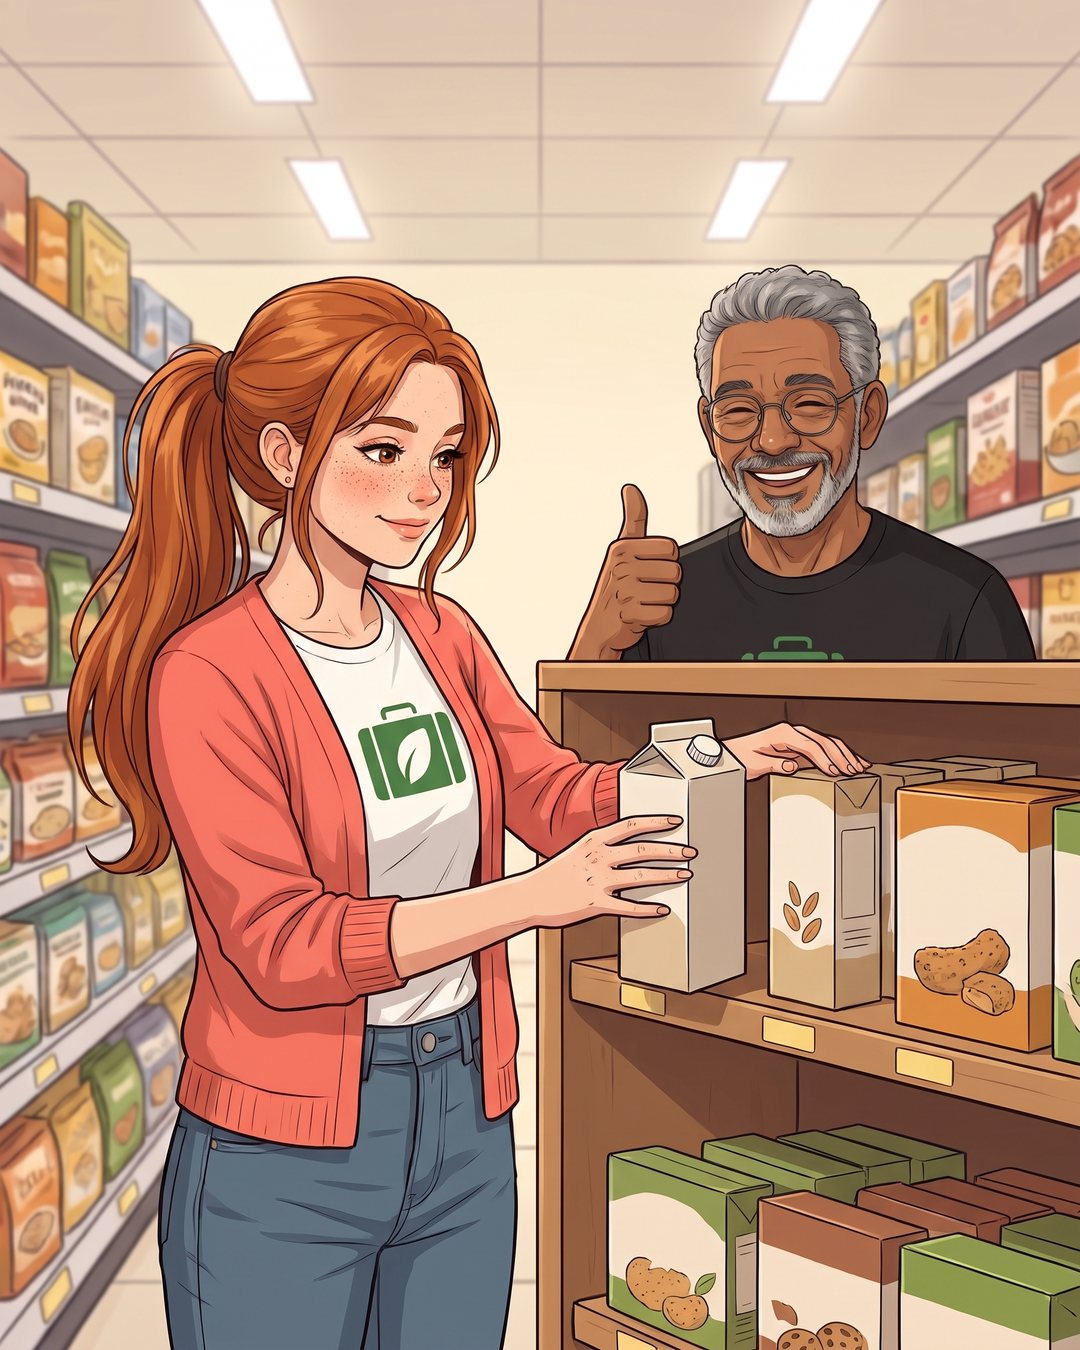
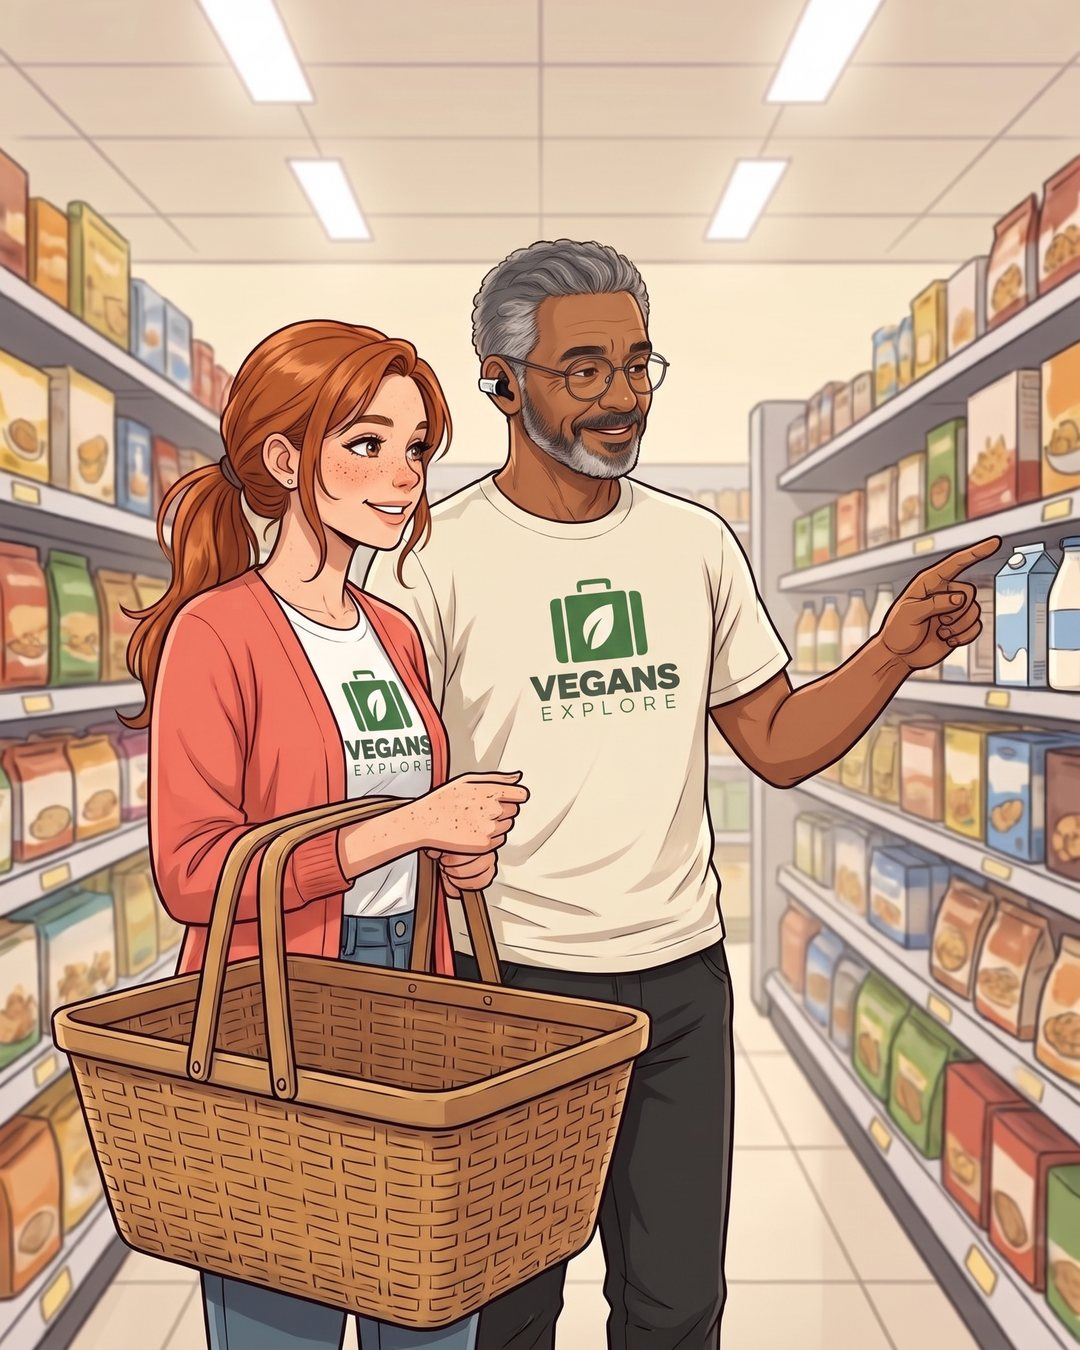
Welcome Guide page 8: shop scene with Liz and Theo, video v2
Claude-Session: https://claude.ai/code/session_01Au68azPz38TGvKt8caVYWg

diff --git a/docs/proposals/welcome-guide-section-scripts.md b/docs/proposals/welcome-guide-section-scripts.md
@@ -69,7 +69,7 @@ About 60 seconds. The page is on the section template (how to use, the paths and
 
 New scenes for this page's video: Liz with each path's world (a restaurant kitchen pass, an event setup, a creator filming, a rescue, a small shop adding plant-based items) and a badge moment, not earlier pictures.
 
-Made: `liz-pth-{trail,kitchen,event,creator,rescue,shop,badge,meetup,link}.jpg` (the shop scene redrawn once: Liz was off-model). Every picture used once. Video `sec-paths-v1.mp4` in vegan-media (73 s), captions `public/guides/welcome/sec-paths-v1.vtt`, scripts `scripts/tour-video/sections/cap-paths.js` and `render-paths.py`.
+Made: `liz-pth-{trail,kitchen,event,creator,rescue,shop,badge,meetup,link}.jpg` (the shop scene redrawn: Liz was off-model, then Sean asked for Liz and Theo with a straight shelf, v2). Every picture used once. Video `sec-paths-v2.mp4` in vegan-media (73 s), captions `public/guides/welcome/sec-paths-v2.vtt`, scripts `scripts/tour-video/sections/cap-paths.js` and `render-paths.py`.
 
 ## 9 to 11
 
